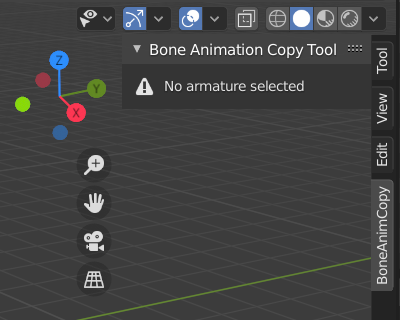
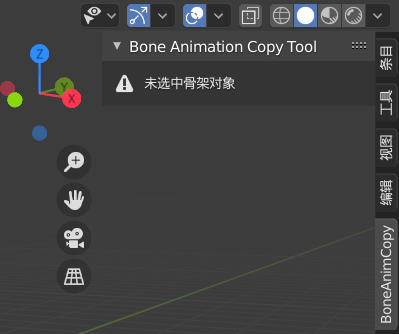
bug修复&readme更新

diff --git a/data.py b/data.py
@@ -40,34 +40,34 @@ class BAC_BoneMapping(bpy.types.PropertyGroup):
         rr.to_min_z_rot = self.offset[2]
 
     selected_target: bpy.props.StringProperty(
-        name="selected_target", 
+        name="映射目标", 
         description="将对方骨骼的旋转复制到自身的哪根骨骼上？", 
         update=update_target
     )
-    target: bpy.props.StringProperty(name="target")
+    target: bpy.props.StringProperty()
     source: bpy.props.StringProperty(
-        name="source", 
-        description="从对方骨架中选择哪根骨骼作为动画来源？", 
+        name="动作来源", 
+        description="从对方骨架中选择哪根骨骼作为动作来源？", 
         update=update_source
     )
 
     has_rotoffs: bpy.props.BoolProperty(
-        name="rotation offset active", 
+        name="旋转偏移", 
         description="附加额外约束，从而在原变换结果的基础上进行额外的旋转", 
         update=update_rotoffs
     )
     has_loccopy: bpy.props.BoolProperty(
-        name="location copy active", 
+        name="位置映射", 
         description="附加额外约束，从而使目标骨骼跟随原骨骼的世界坐标运动，通常应用于根骨骼、武器等", 
         update=update_loccopy
     )
     has_ik: bpy.props.BoolProperty(
-        name="ik active",
+        name="IK",
         description="附加额外约束，从而使目标骨骼跟随原骨骼进行IK矫正，通常应用于手掌、脚掌",
         update=update_ik
     )
     offset: bpy.props.FloatVectorProperty(
-        name="rotation offset", 
+        name="旋转偏移量", 
         description="世界坐标下复制旋转方向后，在本地坐标下进行的额外旋转偏移。通常只需要调整Y旋转", 
         min=-pi,
         max=pi,
@@ -97,15 +97,15 @@ class BAC_BoneMapping(bpy.types.PropertyGroup):
         s = get_state()
 
         con = {
-            True:             self.get_cr,
-            self.has_rotoffs: self.get_rr,
-            self.has_loccopy: self.get_cp,
-            self.has_ik:      self.get_ik
+            self.get_cr: True,
+            self.get_rr: self.has_rotoffs,
+            self.get_cp: self.has_loccopy,
+            self.get_ik: self.has_ik
         }
 
         for key, value in con.items():
-            if key:
-                c = value()
+            if value:
+                c = key()
                 c.target = s.source
                 c.subtarget = self.source
 
@@ -118,15 +118,15 @@ class BAC_BoneMapping(bpy.types.PropertyGroup):
 
     def clear(self):
         con = {
-            True:             self.get_cr,
-            self.has_rotoffs: self.get_rr,
-            self.has_loccopy: self.get_cp,
-            self.has_ik:      self.get_ik
+            self.get_cr: True,
+            self.get_rr: self.has_rotoffs,
+            self.get_cp: self.has_loccopy,
+            self.get_ik: self.has_ik
         }
 
         for key, value in con.items():
-            if key:
-                self.remove(value())
+            if value:
+                self.remove(key())
     
     def remove(self, constraint):
         if not self.target_valid():

diff --git a/utilfuncs.py b/utilfuncs.py
@@ -1,5 +1,18 @@
 import bpy
 import difflib
+# from mathutils import Martrix
+
+# def data_to_matrix4x4(values):
+# 	return Matrix((values[0:4], values[4:8], values[8:12], values[12:16]))
+
+# def matrix4x4_to_data(matrix):
+# 	values = []
+
+# 	for y in range(0, 4):
+# 		for x in range(0, 4):
+# 			values.append(matrix[y][x])
+
+# 	return values
 
 def get_state():
     return bpy.context.object.kumopult_bac
@@ -24,3 +37,14 @@ def get_similar_bone(target_name, source_bones):
             similar_name = source.name
     
     return similar_name
+
+def get_mirror_bone_by_location(bone):
+    if type(bone) == str:
+        bone = get_state().get_target_armature().get(bone)
+    return None
+
+def alert_error(title, message):
+	def draw(self, context):
+		self.layout.label(text=message)
+
+	bpy.context.window_manager.popup_menu(draw, title=title, icon='ERROR')

diff --git a/README.md b/README.md
@@ -11,29 +11,27 @@
 
 我在此基础上进一步研究了骨骼轴向差异等问题的解决方法，并整合成了这个插件来将相关的设置操作简化。希望这一思路能被进一步开发，让更多苦于动作制作的繁琐的独立动画/游戏制作者得到便利。
 
-### 注意：以下文档内容急需更新，具体操作请以视频中的演示为准
-下面的文档是两星期前刚做出第一个能用的版本时写的，但经过这两天的突击开发，多出了IK和预设等功能，界面有了一些变化。最近两个月又忙得很挤不出时间来更新文档了……
-
 ## 实现原理
 暂时没时间写……
 
 ## 使用说明
+### 基本功能
 #### 旋转映射
 安装并注册插件后，可以在3D视图的右侧看到插件面板。在未选中骨架对象时并不会提供任何功能。
 
 ![](README.assets/QQ截图20201020010025.png)
 
-导入一个人物模型以及一个想要映射动作到人物身上的骨架。我这里使用的是UE4骨架的跑步动作。
+导入一个人物模型以及一个想要映射动作到人物身上的带动作的骨架。我这里使用的是UE4骨架的跑步动作。
 
-点选角色的骨架，右侧面板就会开始显示相关功能。动作复制的目标(Target)必然是选中的骨架自身，动作复制的来源(Source)则可以在场景中选取任意其它骨架。
+点选角色的骨架，右侧面板就会开始显示相关功能。**映射目标**必然是选中的骨架自身，**动作来源**则可以在场景中选取任意其它骨架。
 
-不过，切换来源骨架时的适配操作我还没写好，目前最好还是选中一个就别变了。。
+不过，切换来源骨架时的适配操作我还没详细测试，最好选中一个后就不要改了。
 
 ![](README.assets/QQ截图20201020013251.png)
 
-将刚才导入的跑步动作骨骼设为源之后，完整的插件面板就会展开。下方的Bone Mappings是本插件的核心，用于编辑目标和源之间的骨骼对应关系，从而控制骨骼变换的映射。
+将刚才导入的跑步动作骨骼设为**动作来源**之后，完整的插件面板就会展开。下方的**骨骼映射表**是本插件的核心，用于编辑目标和源之间的骨骼对应关系，从而实现骨骼变换的映射。
 
-右侧的前四个按钮就是一个blender列表界面的基础增删移动功能，这里先点击【+】新建一个mapping，将两个模型的根骨骼，也就是第一根脊椎骨建立对应关系，就可以看到目标骨骼跟源骨骼一样指向了斜上方。
+右侧纵向排列的前四个按钮就是一个blender列表界面的基础增、删、上下移动功能，这里先点击【+】新建一个mapping，将两个模型的根骨骼，也就是第一根脊椎骨建立对应关系，就可以看到目标骨骼跟源骨骼一样指向了斜上方。
 
 ![](README.assets/BAC_README_01.gif)
 
@@ -41,11 +39,13 @@
 
 ![](README.assets/BAC_README_02.gif)
 
-现在我们发现，人物映射动作后的朝向和跑步姿势并不吻合，这是由于人物的骨架和UE4骨架的轴向不同。因此需要额外进行修正
+#### 旋转修正
+现在我们发现，人物映射动作后的朝向和跑步姿势并不吻合，这是由于人物的骨架和UE4骨架的轴向不同。因此需要额外进行旋转修正
 
-![同样是Y轴朝上，blender骨骼的z轴朝前，UE4骨骼的z轴朝左](README.assets/QQ截图20201020111402.png)
+![](README.assets/QQ截图20201020111402.png "同样是Y轴朝上，blender骨骼的z轴朝前，UE4骨骼的z轴朝左")
 
-开启【编辑细节】，勾选需要矫正的骨骼右侧的【旋转矫正】开关，之后就可以根据欧拉角来给目标骨骼设置偏移。大多情况下都只需要调整Y旋转
+在骨骼映射表上方还有四个横向排列的按钮，之前编辑映射关系时默认选择的是第一个。现在我们点击第二个按钮进入旋转修正的编辑模式，就可以通过映射表每一行左侧的按钮来激活对应骨骼的旋转修正，并设置偏移的角度。
+blender的骨骼都是以y轴作为延伸方向，大多数情况下只需要修正y旋转。
 
 ![](README.assets/BAC_README_03.gif)
 
@@ -54,21 +54,40 @@
 ![](README.assets/BAC_README_05.gif)
 
 #### 位置映射
-之前的步骤只复制了旋转信息，因此跑步也只能在原地跑，要想把位移也一起复制的话，需要对根骨骼勾选这个选项
-
-![](README.assets\QQ图片20201020121701.png)
-
-效果：
+之前的步骤只复制了旋转信息，因此跑步也只能在原地跑，要想把位移也一起复制的话，就需要点击第三个按钮，进入位置映射的编辑模式。同样是点击左侧的按钮从而在特定骨骼上激活。
 
 ![](README.assets/BAC_README_06.gif)
 
-位置映射尚需进一步完善，现在只是简单地复制世界坐标，实际使用上还需更详细的设置。
+位置映射尚需进一步完善，现在只是简单地复制世界坐标，实际使用中如果能进行一定的偏移可能会更好。
+
+#### IK修正
+仅依靠旋转来映射动作的话，手和脚的最终位置会受到关节长度的影响，在上一张图中可以看到角色的脚并没有准确地踩在地上。想修正这点的话可以点击第四个按钮进入IK修正的编辑。激活脚掌和手掌骨骼的IK修正，就可以更准确地模仿来源骨架的动作。
+
+![](README.assets/BAC_README_07.gif)
+
+不过要注意的是，骨架的身高差异有可能会对手的IK修正效果产生影响，并不是应用了IK效果就一定更好，具体还是要在实践中体会。
+
+#### 保存预设
+辛辛苦苦设定好对应关系调好角度后，就可以保存预设，之后在映射相同种类的两种骨骼时就能一键解决。操作方法也很明显，就不多说了。
+
+### 额外功能
+插件的基本工作方式就是以上四种，实操一遍之后你会发现其实大部分的工作量还是在设定骨骼的对应关系上。因此除了一对对建立关系，插件也正在寻找一些提高映射效率的操作。
 
 #### 子级映射
-一对对建立关系效率还是太低了，很多时候当一对骨骼建立映射之后，它们各自的子级也是需要映射的。根据这个规律我做了一个通过父级来快速联系子级的功能。
+很多时候当一对骨骼建立映射之后，它们各自的子级也是需要映射的。根据这个规律我做了一个通过父级来快速联系子级的功能。
 
 在列表中选中一条有效的mapping后，点击【子级对应】就会自动对子级进行判断。如果源和目标骨骼各自都只有一个子级，就会直接生成一条子级间的mapping。对于一连串的脊椎，它可以便捷地建立一整条映射。
 
 如果源和目标的子级并非只有一个，则会为目标骨骼的所有子级各生成一条源骨骼为空的mapping，剩下的就仍然需要手动填入。
 
 ![](README.assets/BAC_README_04.gif)
+
+#### 名称映射
+顾名思义，如果需要建立映射的两根骨骼命名相似甚至完全一致的话，那直接对比名称就可以自动挑选对应骨骼了？
+
+不过实际使用效果并不好……单纯对比字符串相似度的话准确率还是太低，毕竟骨骼的命名本就千奇百怪。
+
+#### 镜像映射
+人物骨骼的重定向中手指是一个比较麻烦的部分，虽然靠子级映射已经减少了一大半工作量但还是嫌多。如果能引入镜像操作的话，那工作量就可以再减一半了。
+
+可惜这功能还在施工中……
